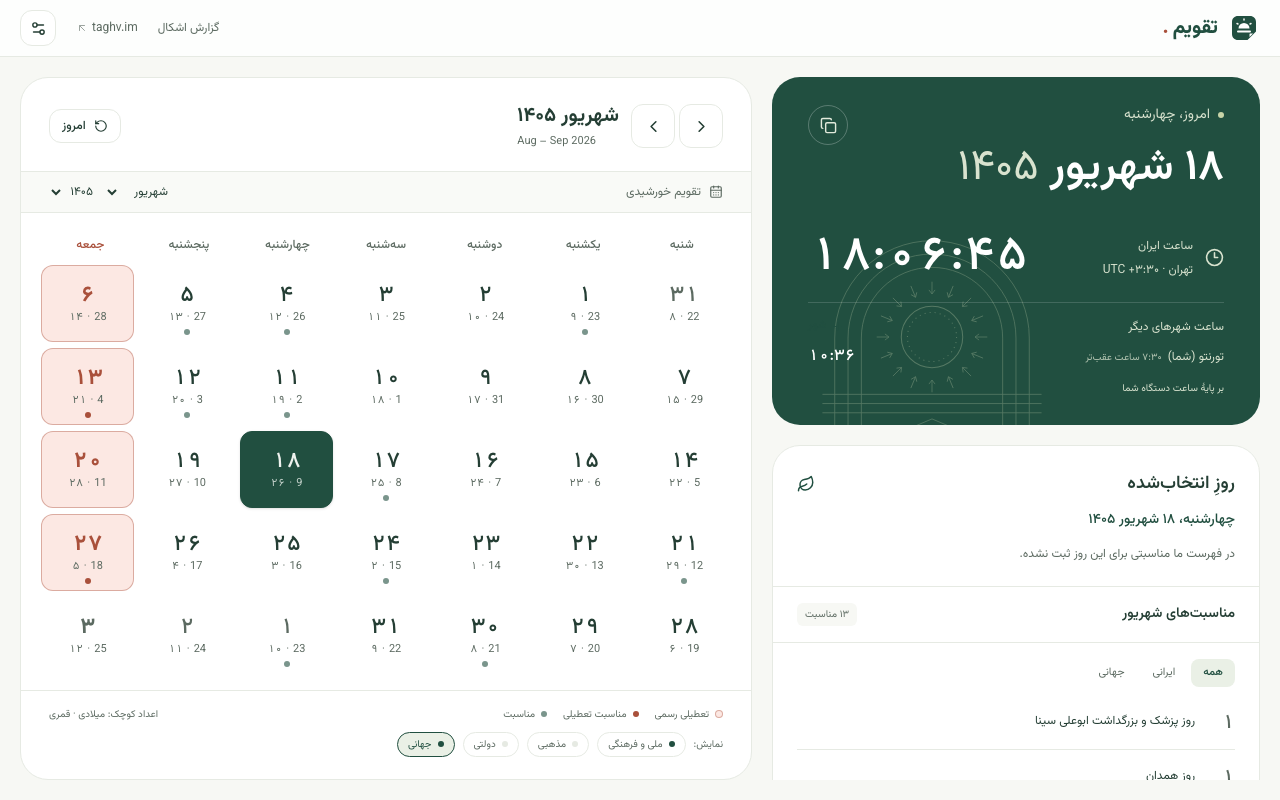
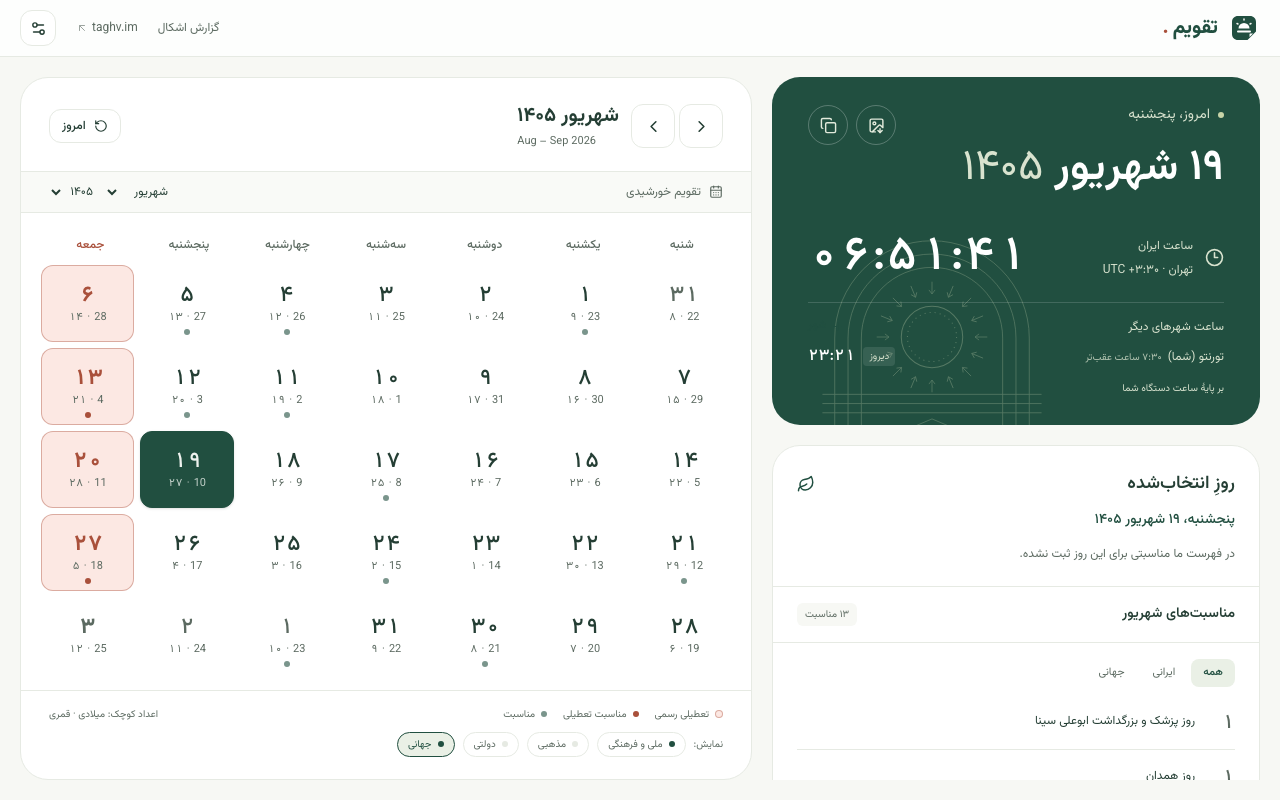
Ship the card backgrounds: pick one from the gear menu
Out of the sandbox. Five palettes and every photograph in public/backgrounds,
chosen from the settings menu beside theme, size and font — it is a matter of
appearance, and the hero already has two buttons. The current green stays the
default, so nobody who wants nothing has to do anything.

Photographs show themselves unblurred in the swatches: a blurred thumbnail at
36px is a grey square and tells you nothing. The blur is the card's job.

SettingsMenu is in the extension's header too, so the picker only appears where
a `card` prop is passed and the swatches are plain <img> — that component must
never gain a next/* import. The extension ships no photographs and is offered
no picker; both packages still build clean with no permissions and no network.

A browser test walks the whole path: green selected before anyone touches
anything and nothing written to storage, a palette chosen and stored, a
photograph chosen and surviving a reload, and the card still exported with no
request leaving the page.

Release 0.9.23. 359 unit + 104 browser tests, both extension packages pass.

diff --git a/src/components/settings-menu.tsx b/src/components/settings-menu.tsx
@@ -1,9 +1,12 @@
 // ============================================================================
 // Source: src/components/settings-menu.tsx
-// Version: 0.4.0 — 2026-09-07
-// Why: Gear button + popover for theme, font size and font family. Applies
-//      the choice to <html> immediately and remembers it in localStorage.
-// Env / Deps: lib/preferences for options and mapping. Lives in both headers.
+// Version: 0.9.23 — 2026-09-09
+// Why: Gear button + popover for theme, font size, font family, and the day
+//      card's background. Applies the choice immediately and remembers it.
+// Env / Deps: lib/preferences and lib/card-style. Lives in both headers, and in
+//      the extension's — so NO next/* imports here, ever. The card section only
+//      appears where a `card` prop is passed: secondary pages draw no card and
+//      the extension ships no photographs.
 // ============================================================================
 
 "use client";
@@ -11,6 +14,13 @@
 import { useEffect, useRef, useState } from "react";
 import { Settings2 } from "lucide-react";
 import { DEFAULT_PREFERENCES, FONTS, PREFERENCE_KEYS, SIZES, THEMES, applyPreferences, parsePreferences, type Preferences } from "@/lib/preferences";
+import { fa } from "@/lib/calendar";
+import { PALETTES, type Background, type CardStyle } from "@/lib/card-style";
+
+// Nothing to choose between when there is one palette and no photographs.
+function backgroundsOrPalettes(card: { backgrounds: Background[] }): boolean {
+  return PALETTES.length > 1 || card.backgrounds.length > 0;
+}
 
 // One row of the menu: a label and a segmented control
 function Choice<T extends string>({ label, options, value, onChange }: { label: string; options: { value: T; label: string }[]; value: T; onChange: (value: T) => void }) {
@@ -20,7 +30,38 @@ function Choice<T extends string>({ label, options, value, onChange }: { label: 
   </div>;
 }
 
-export function SettingsMenu() {
+// The swatches for the day card. Palettes are their own colour; a photograph shows itself,
+// unblurred, because a blurred thumbnail at this size is a grey square and tells you nothing.
+function CardChoice({ style, backgrounds, onChange }: { style: CardStyle; backgrounds: Background[]; onChange: (next: CardStyle) => void }) {
+  const swatch = (selected: boolean) =>
+    `size-9 overflow-hidden rounded-lg border transition-colors ${selected ? "border-forest ring-2 ring-forest/40" : "border-line hover:border-forest/50"}`;
+  return (
+    <div role="group" aria-label="پسزمینهٔ تصویر روز" className="space-y-2">
+      <span className="block text-xs text-muted">پسزمینهٔ تصویر روز</span>
+      <div className="grid max-h-40 grid-cols-6 gap-1.5 overflow-y-auto">
+        {PALETTES.map((palette) => (
+          <button key={palette.id} type="button" title={palette.label} aria-label={palette.label}
+            aria-pressed={style.kind === "palette" && style.id === palette.id}
+            onClick={() => onChange({ kind: "palette", id: palette.id })}
+            className={swatch(style.kind === "palette" && style.id === palette.id)}
+            style={{ backgroundColor: palette.colours.background }} />
+        ))}
+        {backgrounds.map((photo, index) => (
+          <button key={photo.id} type="button" title={`عکس ${fa(index + 1)}`} aria-label={`عکس ${fa(index + 1)}`}
+            aria-pressed={style.kind === "photo" && style.id === photo.id}
+            onClick={() => onChange({ kind: "photo", id: photo.id })}
+            className={swatch(style.kind === "photo" && style.id === photo.id)}>
+            {/* Plain <img>: this component is bundled into the extension, which must not
+                carry a next/* import. */}
+            <img src={photo.src} alt="" loading="lazy" className="size-full object-cover" />
+          </button>
+        ))}
+      </div>
+    </div>
+  );
+}
+
+export function SettingsMenu({ card }: { card?: { style: CardStyle; backgrounds: Background[]; onChange: (next: CardStyle) => void } } = {}) {
   const [open, setOpen] = useState(false);
   const [prefs, setPrefs] = useState<Preferences>(DEFAULT_PREFERENCES);
   const [storageError, setStorageError] = useState(false);
@@ -51,6 +92,11 @@ export function SettingsMenu() {
       <Choice label="پوسته" options={THEMES} value={prefs.theme} onChange={(value) => update("theme", value)} />
       <Choice label="اندازهٔ قلم" options={SIZES} value={prefs.size} onChange={(value) => update("size", value)} />
       <Choice label="قلم" options={FONTS} value={prefs.font} onChange={(value) => update("font", value)} />
+      {card && backgroundsOrPalettes(card) && (
+        <div className="border-t border-line pt-3">
+          <CardChoice style={card.style} backgrounds={card.backgrounds} onChange={card.onChange} />
+        </div>
+      )}
       {storageError && <p role="status" className="text-[0.625rem] text-clay">ذخیرهٔ تنظیمات در مرورگر ممکن نیست؛ تا بستن صفحه حفظ میشود.</p>}
     </div>}
   </div>;

diff --git a/tests/calendar.spec.ts b/tests/calendar.spec.ts
@@ -884,3 +884,41 @@ test("the changelog opens short, with the rest one fold away", async ({ page }) 
     expect(text.trim().length).toBeLessThanOrEqual(150);
   }
 });
+
+test("the day card's background is chosen from the settings menu and remembered", async ({ page }) => {
+  const gear = page.getByRole("banner").getByRole("button", { name: "تنظیمات نمایش" });
+  await gear.click();
+  const picker = page.getByRole("group", { name: "پسزمینهٔ تصویر روز" });
+  await expect(picker).toBeVisible();
+
+  // The current green is the default, and it is what is selected before anyone touches it.
+  await expect(picker.getByRole("button", { name: "سبز" })).toHaveAttribute("aria-pressed", "true");
+  expect(await page.evaluate(() => window.localStorage.getItem("taghvim-card"))).toBeNull();
+
+  await picker.getByRole("button", { name: "شب" }).click();
+  await expect(picker.getByRole("button", { name: "شب" })).toHaveAttribute("aria-pressed", "true");
+  expect(await page.evaluate(() => JSON.parse(window.localStorage.getItem("taghvim-card") ?? "{}")))
+    .toMatchObject({ kind: "palette", id: "night" });
+
+  // A photograph, if the folder has any, and it survives a reload.
+  const photo = picker.getByRole("button", { name: /^عکس / }).first();
+  if (await photo.count()) {
+    await photo.click();
+    const stored = await page.evaluate(() => JSON.parse(window.localStorage.getItem("taghvim-card") ?? "{}"));
+    expect(stored.kind).toBe("photo");
+    await page.reload();
+    await gear.click();
+    await expect(page.getByRole("group", { name: "پسزمینهٔ تصویر روز" }).getByRole("button", { name: /^عکس / }).first())
+      .toHaveAttribute("aria-pressed", "true");
+  }
+
+  // The card still builds, and still leaves the page alone while it does.
+  const requests: string[] = [];
+  page.on("request", (request) => { if (!/^https?:\/\/(localhost|127\.0\.0\.1)/.test(request.url())) requests.push(request.url()); });
+  const download = page.waitForEvent("download", { timeout: 15000 });
+  await page.keyboard.press("Escape");
+  await page.getByRole("button", { name: "تصویر امروز" }).click();
+  const file = await download;
+  expect(file.suggestedFilename()).toMatch(/^taghvim-\d{4}-\d{2}-\d{2}\.(png|jpg)$/);
+  expect(requests).toEqual([]);
+});

diff --git a/src/components/calendar-app.tsx b/src/components/calendar-app.tsx
@@ -14,7 +14,7 @@ import { ArrowLeftRight, CalendarDays, Hourglass, MapPin } from "lucide-react";
 import { dayKey, shiftMonth, toCalendar } from "@/lib/calendar";
 import { DEFAULT_VIEW, readView, saveView, type ViewPreferences } from "@/lib/view";
 import { datesOn, readDates, saveDates, type Anniversary } from "@/lib/dates";
-import { DEFAULT_CARD_STYLE, readCardStyle, type Background, type CardStyle } from "@/lib/card-style";
+import { DEFAULT_CARD_STYLE, readCardStyle, saveCardStyle, type Background, type CardStyle } from "@/lib/card-style";
 import type { Person } from "@/lib/javidnaman";
 import { TodayPanel } from "./today-panel";
 import { CalendarPanel } from "./calendar-panel";
@@ -62,6 +62,10 @@ export function CalendarApp({ initialNow, person, backgrounds }: { initialNow: s
   function commitDates(next: Anniversary[]) {
     setDates(next);
     saveDates(next);
+  }
+  function chooseCard(next: CardStyle) {
+    setCardStyle(next);
+    saveCardStyle(next);
   }
   function toggleView(key: keyof ViewPreferences) {
     const next = { ...preferences, [key]: !preferences[key] };
@@ -122,7 +126,7 @@ export function CalendarApp({ initialNow, person, backgrounds }: { initialNow: s
             <button onClick={() => openTool("distance")} className="flex shrink-0 items-center gap-1.5 text-muted hover:text-forest"><Hourglass size={16} />فاصلهٔ تاریخها</button>
             {preferences.religious && <a href="#prayer" className="flex shrink-0 items-center gap-1.5 text-muted hover:text-forest"><MapPin size={16} />اوقات شرعی</a>}
           </nav>
-          <SettingsMenu />
+          <SettingsMenu card={{ style: cardStyle, backgrounds, onChange: chooseCard }} />
         </div>
       </header>
       {/* On phones the month grid comes first and the hero follows it: measured in

diff --git a/src/lib/changelog.ts b/src/lib/changelog.ts
@@ -1,6 +1,6 @@
 // ============================================================================
 // Source: src/lib/changelog.ts
-// Version: 0.9.29 — 2026-09-09
+// Version: 0.11.0 — 2026-09-09
 // Why: The release history and the shortlist of what is being considered next,
 //      as data. Rendered by /changelog; nothing else reads it.
 //      WRITTEN FOR VISITORS, NOT FOR US. Work that changes nothing a visitor can
@@ -37,6 +37,16 @@ export const CHANGE_LABELS: Record<ChangeKind, string> = {
 
 // Newest first. Add a release here in the same commit that ships it.
 export const RELEASES: Release[] = [
+  {
+    version: '0.9.23',
+    at: '2026-09-09T22:05:00-04:00',
+    status: 'ready',
+    title: 'پسزمینه برای تصویر روز',
+    changes: [
+      { kind: 'added', text: 'تصویر روز حالا پسزمینه میگیرد: پنج رنگ، یا یکی از عکسها. از چرخدندهٔ بالای صفحه انتخابش کن.' },
+      { kind: 'added', text: 'عکسها خیلی محو میشوند تا تاریخ و مناسبتها خوانا بمانند. انتخابت در همین مرورگر ذخیره میشود.' },
+    ],
+  },
   {
     version: '0.9.22',
     at: '2026-09-09T15:17:16-04:00',

diff --git a/src/app/help/page.tsx b/src/app/help/page.tsx
@@ -36,6 +36,7 @@ const SECTIONS = [
       "با کلیدهای جهتنما میتوانی بین روزها حرکت کنی؛ چون صفحه راستچین است، فلش چپ به روز بعد میرود.",
       "زیر عدد هر روز، دو عدد کوچک هست: میلادی و قمری. راهنمای پایین تقویم همین را میگوید.",
       "بالای صفحه، کنار دکمهٔ کپی تاریخ، دکمهٔ «تصویر امروز» هست: از روزی که میبینی یک تصویر میسازد. روی گوشی پنجرهٔ همرسانی باز میشود و روی کامپیوتر تصویر ذخیره میشود. تصویر در مرورگر خودت ساخته میشود و به جایی فرستاده نمیشود.",
+      "پسزمینهٔ همان تصویر را از چرخدندهٔ بالای صفحه عوض کن: پنج رنگ، یا یکی از عکسها. عکسها عمداً خیلی محو میشوند تا تاریخ و مناسبتها خوانا بمانند، و انتخابت در همین مرورگر ذخیره میشود.",
     ],
   },
   {

diff --git a/AGENTS.md b/AGENTS.md
@@ -16,7 +16,8 @@ Persian-language, RTL calendar web app inspired by `time.ir`, with a modern Iran
   **Both live in the tools box, not on the page.** They are the first two tabs of `ToolsPanel`, and `DEFAULT_TOOL` is `bridges` — the box opens on it. They were a full-width row under the calendar for one commit (`adf3faa`); Farjad moved them into the tools on 9 Sep. `ToolsPanel` therefore takes `groups`; the other three tabs ignore it. The tool shows at most `BRIDGES_LIMIT` (3) runs over a rolling twelve months — the Persian year would leave it empty in Esfand — and links to `/bridges`, which lists the whole year and the next with the same switches read from `taghvim-view`, under `YearView` (`components/year-view.tsx`): the twelve months drawn from the same `bridges` array so the two cannot disagree, cell priority leave → run → holiday → Friday, because the leave day is the point of the picture. Measured: the year view is 868px tall at 1280 with 38px cells. **The trade-off to keep in mind:** the tools box sits far down the page, so this is much less discoverable than the row was — that was the explicit call, not an accident. `bridges-tool.tsx` and `countdown-tool.tsx` have no Next imports so the extension could use them; it does not yet.
 - **Personal dates and the state's mark.** `src/lib/dates.ts` keeps the visitor's own birthdays and anniversaries in `taghvim-dates`, guarded the way `lib/view.ts` guards its record — a blob that is not an array is discarded whole, but one malformed entry inside a good array is skipped and the rest kept, because losing one name beats losing all of them. **This is the first thing the app stores that is content, not a setting**, and the content is people's names: `/about#privacy` says so in its own paragraph, and the Chrome Web Store listing links to that anchor, so that wording is a public claim — never quietly fold it back into «شش تنظیم». 30 Esfand is accepted (validated against a leap year) and clamped back to 29 Esfand in years that have no 30th, never spilling into Farvardin past Nowruz. The `.ics` export carries **no RRULE** — a yearly Gregorian rule drifts against the Solar Hijri year — so ten years are written out explicitly, and every event says the file does not update itself. **It is the third tab of the tools box**, not a page. It was a page at `/dates` for two hours, reached only by a link at the foot of the «روزشمار» tab — which put it three steps down, all below the fold, and rendered **zero** links to it in the home page's HTML, because a tab panel only renders the tab that is open. Farjad could not find his own feature; that is what the placement cost. The page is gone and its route with it. It sits third in the strip rather than last because the strip scrolls on a phone, and a tab nobody scrolls to is the page it replaced. **A URL hash now selects a tool** — `/#dates`, `/#bridges` — so anything can link straight at one instead of describing where to click; `TOOL_TABS` is the list a hash may name. `CalendarPanel`'s optional `marked` prop puts a dot on a day that carries one, and the legend grows a row **only when `marked` is passed** — a dot with no key is the mistake the holiday-colour report caught once.
   **The `state` category is Farjad's editorial call of 9 Sep and is enforced by a test.** No occasion in it carries «ایران»: `روز جمهوری اسلامی`, `بازگشت امام خمینی؛ آغاز دهه فجر`, and 22 Bahman is `متأسفانه شورش ۵۷ (جمهوری اسلامی)`. Every one of them renders behind `StateMark` — an **inline SVG, never the emoji**: 💩 is a colour bitmap that ignores the theme and the font, and this project draws its glyphs (the zodiac signs are SVG for the same reason). `components/occasions.tsx` is the single renderer for a list of occasions so the mark cannot be applied in one view and forgotten in another; use it rather than printing `event.title`. This is consistent with the memorial panel, which has always named the same government. **The same call renames the two men:** Khomeini is «دجال زمان (خمینی آفتابه به دست)» and Khamenei is «ضحاک تاریخ», wherever either appears; the rule lives in a unit test that walks every day of the year, so no row can reintroduce either man in his official form. **9 Esfand** carries «هلاکت ضحاک تاریخ (خامنهای) در ثانیهٔ صفر جنگ» — 28 February 2026, a Saturday, and the death was checked against contemporary reporting before it was written into the dataset, not taken from memory. It is **not** flagged a holiday, because nothing declared one. Farjad's spellings were normalised to the file's typography («متأسفانه», «آفتابه»), which he was told. The category stays **off by default**, and the `.ics` feed is `iran`-only, so none of this reaches a subscriber's calendar.
-- **The day card.** The hero's second button draws the day as a 1080×1080 PNG on a canvas in the visitor's own browser and hands it to `navigator.share` where there is one — the point is «send it to Telegram», which is a share sheet on a phone — falling back to a download. Nothing is uploaded and no server renders it, so the **extension carries it too** and it still makes no network request; `URL.createObjectURL` and a blob download are local. It draws from the day the hero shows and through the visitor's own groups, so what gets sent is what was on screen. `components/day-card.tsx` is the one component allowed hex colours (a canvas cannot read a CSS variable and this is an exported image, not themed UI); `PALETTE` names the token each value comes from — keep them equal, the rule `scripts/build-og` already follows. Holiday titles use the **dark** clay: the light-theme value is unreadable on that green. One design only, the green square, picked by Farjad from three in a sandbox on 9 Sep; the sandbox is deleted. **The Arabic-shaping worry that killed satori for the social image does not apply here** — satori has its own layout engine, a canvas uses the browser's shaper, and Persian joins correctly. Verified in a real browser before anything was built on it.
+- **The day card.** The hero's second button draws the day as a 1080×1080 PNG on a canvas in the visitor's own browser and hands it to `navigator.share` where there is one — the point is «send it to Telegram», which is a share sheet on a phone — falling back to a download. Nothing is uploaded and no server renders it, so the **extension carries it too** and it still makes no network request; `URL.createObjectURL` and a blob download are local. It draws from the day the hero shows and through the visitor's own groups, so what gets sent is what was on screen. `components/day-card.tsx` is the one component allowed hex colours (a canvas cannot read a CSS variable and this is an exported image, not themed UI); `PALETTE` names the token each value comes from — keep them equal, the rule `scripts/build-og` already follows. Holiday titles use the **dark** clay: the light-theme value is unreadable on that green. One design only, the green square, picked by Farjad from three in a sandbox on 9 Sep; the sandbox is deleted.
+  **The background is the visitor's choice** (`taghvim-card`, `lib/card-style.ts`): five palettes or one of the photographs in `public/backgrounds`, chosen from the gear menu. That folder is read on the SERVER by `lib/backgrounds.ts` and passed down as a prop — **never a hand-kept manifest**, so dropping a file in is the whole job. File names carry spaces, Persian, «•» and «…»; the `src` is `encodeURIComponent`-ed and the id is the raw name, so a rename drops a stored choice back to the default. Note the server treats `(` and `%28` as different paths: always let the app build these URLs, never hand-write one. Photographs are blurred by drawing into a 28px canvas and scaling it back up — not `ctx.filter`, which Safari learned late — under a scrim, so the picture gives colour and never competes with the date. **Load them with `onload`, never `image.decode()`**: decode resolves when the image can be *painted*, so in a tab that is not being rendered it never settles and the card is never built. And a photo card is exported as **JPEG**, not PNG: PNG is the worst format for a field of gradients and the same card ran 221–925KB against 82KB flat; JPEG at 0.92 is 53–96KB. `cardFormat()` decides both the type and the extension. **The extension ships no photographs** — they live in the site's `public/`, and fetching one would break its zero-request rule — so it renders the plain palette and `SettingsMenu` hides the picker when it gets no `card` prop. `SettingsMenu` is in the extension's header too, so it must never gain a `next/*` import; the swatches are plain `<img>` for that reason. **The Arabic-shaping worry that killed satori for the social image does not apply here** — satori has its own layout engine, a canvas uses the browser's shaper, and Persian joins correctly. Verified in a real browser before anything was built on it.
 - **Display settings.** A gear in both headers opens theme (auto/light/dark), font size (14/16/18px root) and font family (Vazirmatn, Shabnam, Sahel, IRANSansX, IRANYekanX — all self-hosted, none fetched from a third party). **They are not all OFL:** Vazirmatn, Shabnam and Sahel are; IRANSansX and IRANYekanX are commercial faces from fontiran.com that Farjad holds a licence for, committed under `src/app/fonts/` with their provenance in the README there. Never call the set OFL. The two commercial faces are variable (weight axis 100-1000), so one `woff2` covers every weight instead of five imports, and their packages' "FaNum" builds must never be used: those map Latin digits onto Persian glyphs and would break the Gregorian date and the LTR clock, which the app renders with real Latin digits. Stored as `taghvim-theme`, `taghvim-size`, `taghvim-font`; applied as `data-theme` / `data-size` / `data-font` on `<html>` by an inline boot script in `app/layout.tsx` before first paint. Every colour must be a token from `globals.css` — never `bg-white`, never a hex literal in a component — because each token has a dark counterpart and axe runs in both themes. Text sizes are rem, never px, so the size setting scales them.
 - **Secular by default.** (Shown on the site as «پیشفرض ایران عزیز»; that is the label Farjad chose, do not rename it back.) `EventGroups` replaces the removed `EventScope`: religious and state default off, world defaults on, and national/cultural (`iran`) events always remain. The calendar legend is now a two-row control: its original key plus «نمایش:», a non-interactive «ملی و فرهنگی» pill, and independent «مذهبی»، «دولتی»، «جهانی»، «یادبود» switches. No header scope switch remains. Religious visibility also gates the prayer navigation link and panel. Memorial visibility is independent and defaults on; preserve its content verbatim. Never move an event between `iran` and `state` without a reason in the commit message.
 - **Install, crawlers and icons.** `app/manifest.ts` makes the site addable to a phone's home screen with its own icon and no browser chrome. **There is no service worker, so it is not offline-capable — never describe it as offline until one exists.** `app/sitemap.ts` and `app/robots.ts` both read `src/lib/routes.ts`, which is the single list of public routes; a unit test walks `src/app` and fails when a `page.tsx` ships without being added there, and another checks `SITE_ORIGIN` against `metadataBase`. The PNG icons (`public/icon-192.png`, `public/icon-512.png`, `src/app/apple-icon.png`) are rendered from `src/app/icon.svg` by `npm run build:icons` and committed — iOS ignores the manifest and reads `apple-icon.png`. The manifest's `background_color` must stay equal to `--color-paper`; a test enforces it.
